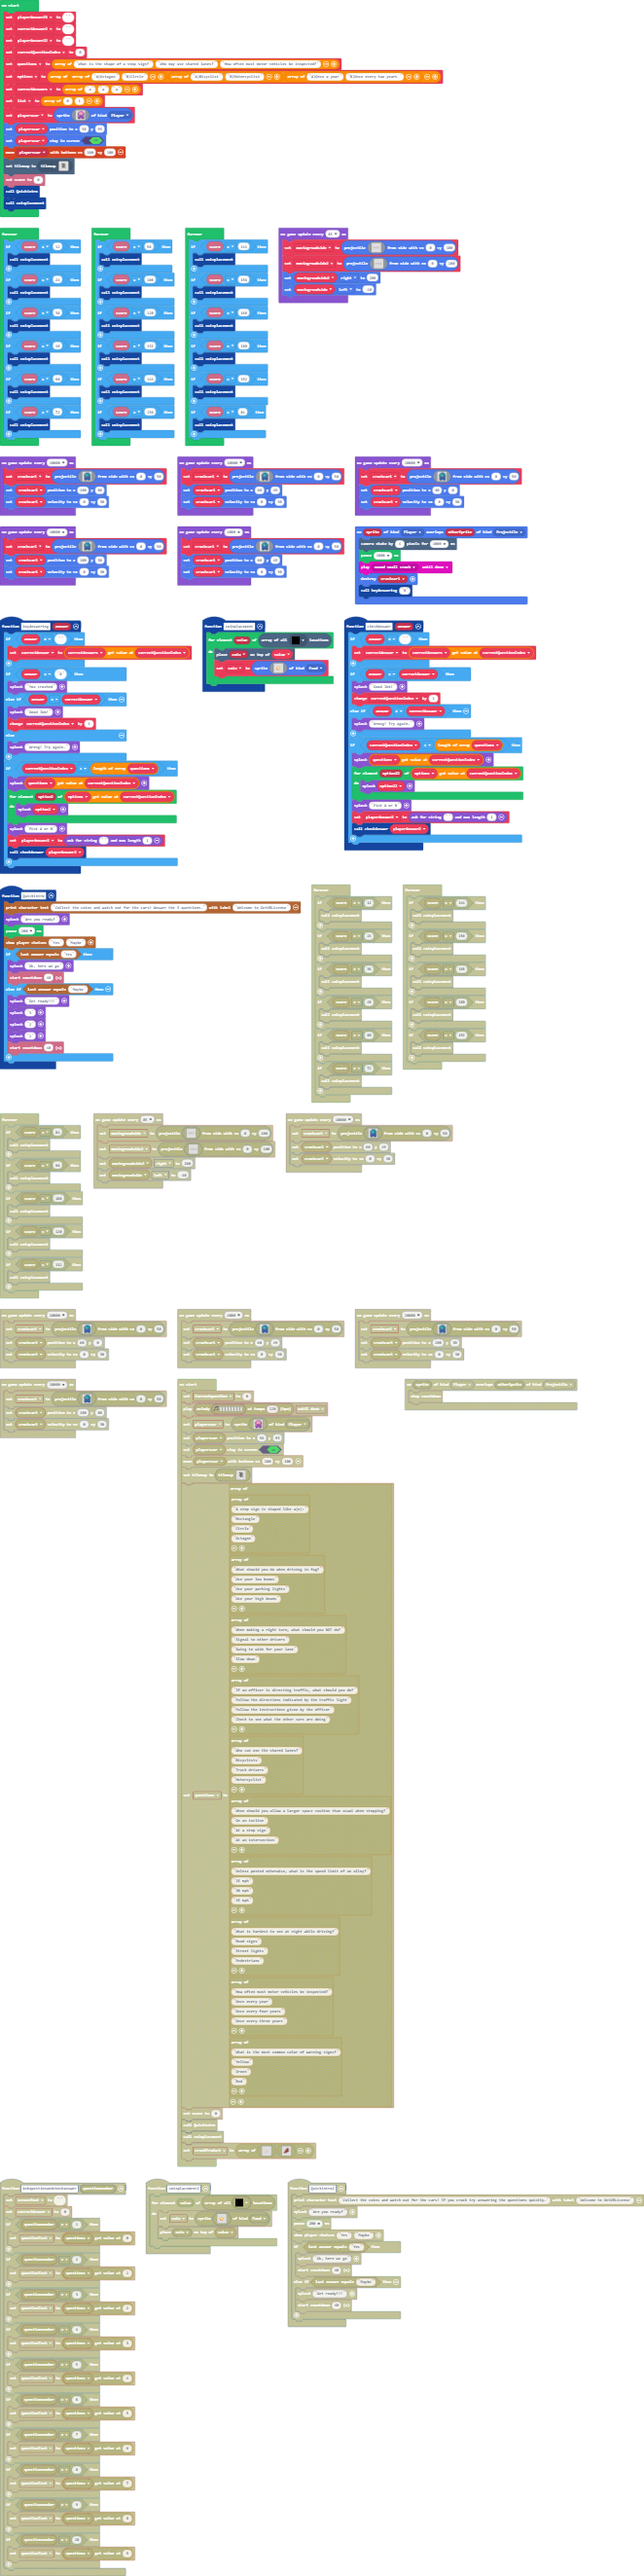
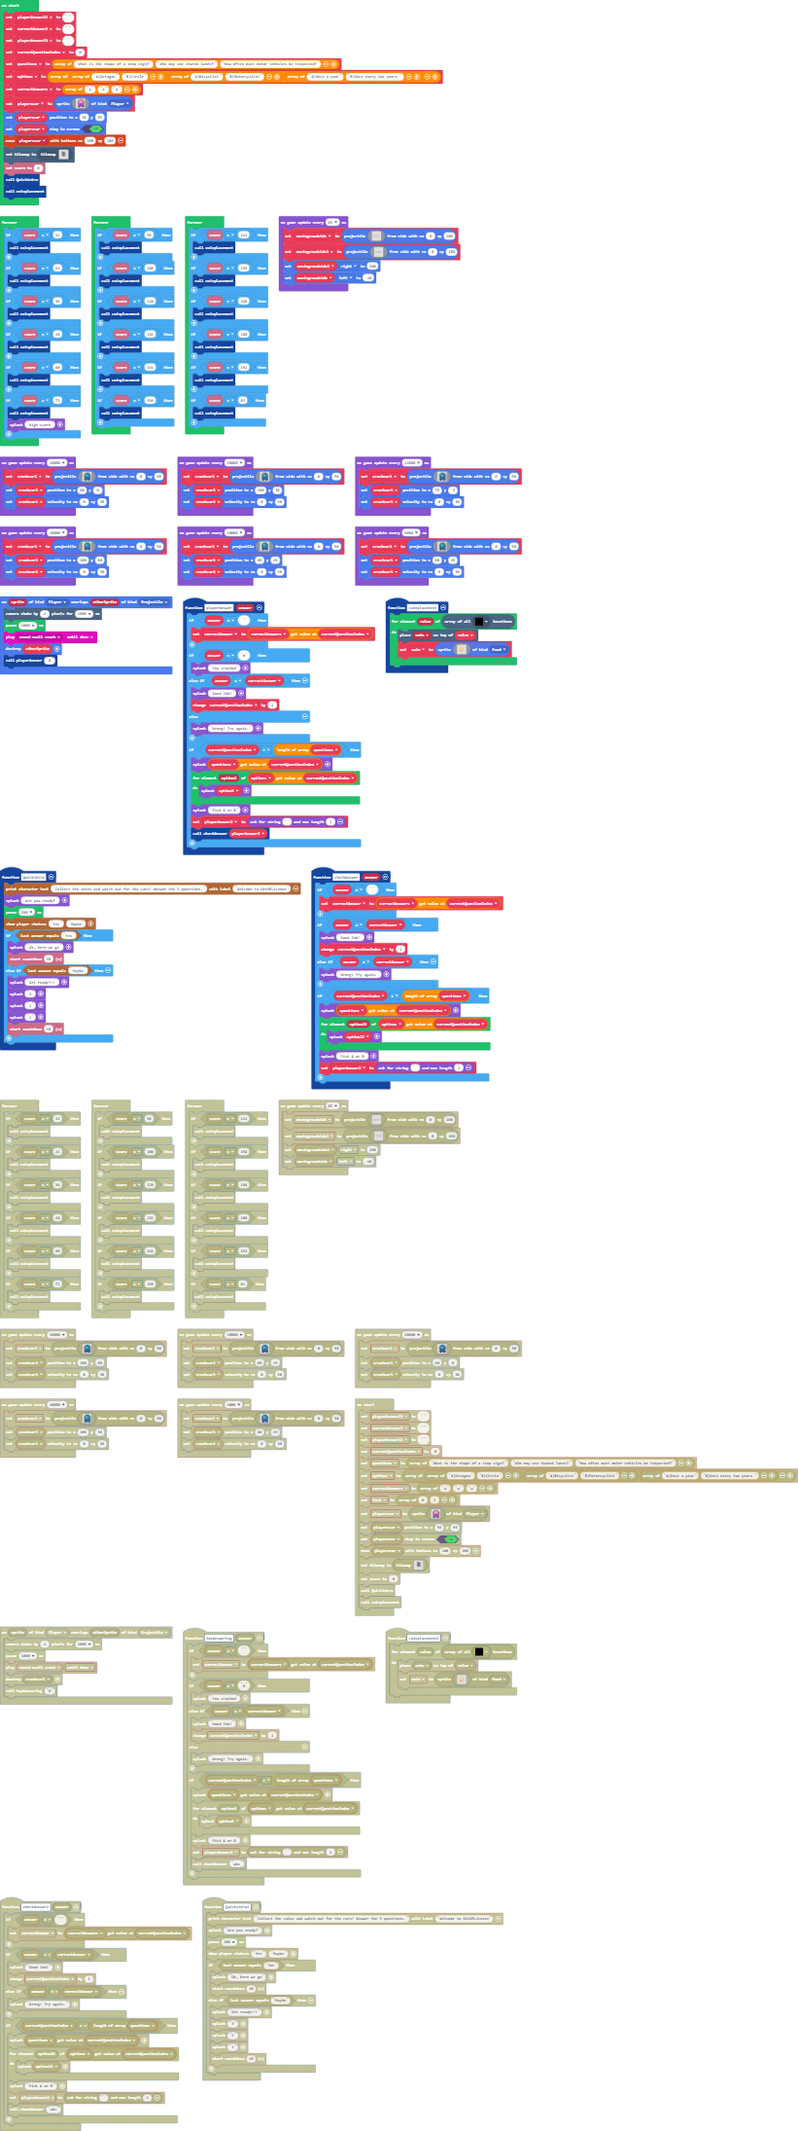
Update main.blocks, main.ts, tilemap.g.jres, tilemap.g.ts

diff --git a/main.ts b/main.ts
@@ -5,8 +5,8 @@ sprites.onOverlap(SpriteKind.Player, SpriteKind.Projectile, function (sprite, ot
     scene.cameraShake(4, 1000)
     pause(1000)
     music.play(music.melodyPlayable(music.smallCrash), music.PlaybackMode.UntilDone)
-    sprites.destroy(crashcar1)
-    heyAnswering("0")
+    sprites.destroy(otherSprite)
+    playerAnswer("0")
 })
 function checkAnswer (answer: string) {
     if (answer != "") {
@@ -25,10 +25,9 @@ function checkAnswer (answer: string) {
         }
         game.splash("Pick A or B")
         playerAnswer2 = game.askForString("", 1)
-        checkAnswer(playerAnswer2)
     }
 }
-function heyAnswering (answer: string) {
+function playerAnswer (answer: string) {
     if (answer != "") {
         correctAnswer = correctAnswers[currentQuestionIndex]
     }
@@ -95,22 +94,21 @@ function Quickintro () {
 }
 let movingroadside2: Sprite = null
 let movingroadside: Sprite = null
+let crashcar1: Sprite = null
 let coin: Sprite = null
 let playerAnswer2 = ""
 let correctAnswer = ""
-let crashcar1: Sprite = null
 let correctAnswers: string[] = []
 let options: string[][] = []
 let questions: string[] = []
 let currentQuestionIndex = 0
-let playerAnswer23 = ""
-let correctAnswer2 = ""
 let playerAnswer22 = ""
+let correctAnswer2 = ""
+let playerAnswer23 = ""
 currentQuestionIndex = 0
 questions = ["What is the shape of a stop sign?", "Who may use shared lanes?", "How often must motor vehicles be inspected?"]
 options = [["A)Octagon", "B)Circle"], ["A)Bicyclist", "B)Motorcyclist"], ["A)Once a year", "B)Once every two years "]]
 correctAnswers = ["a", "a", "a"]
-let list = [0, 1]
 let playerscar = sprites.create(img`
     . . . . . . a a c c a a . . . . 
     . . . . . a 3 3 3 3 3 3 a . . . 
@@ -136,6 +134,28 @@ tiles.setCurrentTilemap(tilemap`level6`)
 info.setScore(0)
 Quickintro()
 coinplacement()
+game.onUpdateInterval(12000, function () {
+    crashcar1 = sprites.createProjectileFromSide(img`
+        . . . . . . 8 8 c c 8 8 . . . . 
+        . . . . . 8 6 6 6 6 6 6 8 . . . 
+        . . . . 6 c 6 6 6 6 6 6 c 6 . . 
+        . . . 8 6 c 9 6 6 6 6 6 c 6 8 . 
+        . . . f 6 6 9 6 6 6 6 6 c 6 f . 
+        . . . f 6 6 9 6 6 6 6 6 6 6 f . 
+        . . . f 6 6 9 6 6 6 6 6 6 6 f . 
+        . . . f 6 c 6 9 9 6 6 6 c 6 f . 
+        . . . 8 6 c 8 c c c c 8 c 6 8 . 
+        . . . 8 6 8 c b b b b c 8 6 8 . 
+        . . . 8 6 8 b b b b b b 8 6 8 . 
+        . . . 8 8 8 8 8 8 8 8 8 8 8 8 . 
+        . . . f 8 d 8 8 8 8 8 8 d 8 f . 
+        . . . f 8 6 d 8 8 8 8 d 6 8 f . 
+        . . . f f 8 8 8 8 8 8 8 8 f f . 
+        . . . . f f . . . . . . f f . . 
+        `, 0, 50)
+    crashcar1.setPosition(75, -5)
+    crashcar1.setVelocity(0, 30)
+})
 game.onUpdateInterval(85, function () {
     movingroadside = sprites.createProjectileFromSide(img`
         ddddddddddddbbbbbbbbdddddddbddddbbbbbbddddddddddddbbbbbbddddddddddddddbbbbbdddddddddd
@@ -204,6 +224,7 @@ forever(function () {
     }
     if (info.score() == 72) {
         coinplacement()
+        game.splash("high score")
     }
 })
 forever(function () {
@@ -265,50 +286,6 @@ game.onUpdateInterval(10000, function () {
         . . . f f 8 8 8 8 8 8 8 8 f f . 
         . . . . f f . . . . . . f f . . 
         `, 0, 50)
-    crashcar1.setPosition(100, 80)
-    crashcar1.setVelocity(0, 30)
-})
-game.onUpdateInterval(10000, function () {
-    crashcar1 = sprites.createProjectileFromSide(img`
-        . . . . . . 8 8 c c 8 8 . . . . 
-        . . . . . 8 6 6 6 6 6 6 8 . . . 
-        . . . . 6 c 6 6 6 6 6 6 c 6 . . 
-        . . . 8 6 c 9 6 6 6 6 6 c 6 8 . 
-        . . . f 6 6 9 6 6 6 6 6 c 6 f . 
-        . . . f 6 6 9 6 6 6 6 6 6 6 f . 
-        . . . f 6 6 9 6 6 6 6 6 6 6 f . 
-        . . . f 6 c 6 9 9 6 6 6 c 6 f . 
-        . . . 8 6 c 8 c c c c 8 c 6 8 . 
-        . . . 8 6 8 c b b b b c 8 6 8 . 
-        . . . 8 6 8 b b b b b b 8 6 8 . 
-        . . . 8 8 8 8 8 8 8 8 8 8 8 8 . 
-        . . . f 8 d 8 8 8 8 8 8 d 8 f . 
-        . . . f 8 6 d 8 8 8 8 d 6 8 f . 
-        . . . f f 8 8 8 8 8 8 8 8 f f . 
-        . . . . f f . . . . . . f f . . 
-        `, 0, 50)
-    crashcar1.setPosition(60, 49)
-    crashcar1.setVelocity(0, 30)
-})
-game.onUpdateInterval(10000, function () {
-    crashcar1 = sprites.createProjectileFromSide(img`
-        . . . . . . 8 8 c c 8 8 . . . . 
-        . . . . . 8 6 6 6 6 6 6 8 . . . 
-        . . . . 6 c 6 6 6 6 6 6 c 6 . . 
-        . . . 8 6 c 9 6 6 6 6 6 c 6 8 . 
-        . . . f 6 6 9 6 6 6 6 6 c 6 f . 
-        . . . f 6 6 9 6 6 6 6 6 6 6 f . 
-        . . . f 6 6 9 6 6 6 6 6 6 6 f . 
-        . . . f 6 c 6 9 9 6 6 6 c 6 f . 
-        . . . 8 6 c 8 c c c c 8 c 6 8 . 
-        . . . 8 6 8 c b b b b c 8 6 8 . 
-        . . . 8 6 8 b b b b b b 8 6 8 . 
-        . . . 8 8 8 8 8 8 8 8 8 8 8 8 . 
-        . . . f 8 d 8 8 8 8 8 8 d 8 f . 
-        . . . f 8 6 d 8 8 8 8 d 6 8 f . 
-        . . . f f 8 8 8 8 8 8 8 8 f f . 
-        . . . . f f . . . . . . f f . . 
-        `, 0, 50)
     crashcar1.setPosition(60, 0)
     crashcar1.setVelocity(0, 30)
 })
@@ -332,5 +309,49 @@ game.onUpdateInterval(10000, function () {
         . . . . f f . . . . . . f f . . 
         `, 0, 50)
     crashcar1.setPosition(100, 30)
+    crashcar1.setVelocity(0, 30)
+})
+game.onUpdateInterval(10000, function () {
+    crashcar1 = sprites.createProjectileFromSide(img`
+        . . . . . . 8 8 c c 8 8 . . . . 
+        . . . . . 8 6 6 6 6 6 6 8 . . . 
+        . . . . 6 c 6 6 6 6 6 6 c 6 . . 
+        . . . 8 6 c 9 6 6 6 6 6 c 6 8 . 
+        . . . f 6 6 9 6 6 6 6 6 c 6 f . 
+        . . . f 6 6 9 6 6 6 6 6 6 6 f . 
+        . . . f 6 6 9 6 6 6 6 6 6 6 f . 
+        . . . f 6 c 6 9 9 6 6 6 c 6 f . 
+        . . . 8 6 c 8 c c c c 8 c 6 8 . 
+        . . . 8 6 8 c b b b b c 8 6 8 . 
+        . . . 8 6 8 b b b b b b 8 6 8 . 
+        . . . 8 8 8 8 8 8 8 8 8 8 8 8 . 
+        . . . f 8 d 8 8 8 8 8 8 d 8 f . 
+        . . . f 8 6 d 8 8 8 8 d 6 8 f . 
+        . . . f f 8 8 8 8 8 8 8 8 f f . 
+        . . . . f f . . . . . . f f . . 
+        `, 0, 50)
+    crashcar1.setPosition(100, 80)
+    crashcar1.setVelocity(0, 30)
+})
+game.onUpdateInterval(10000, function () {
+    crashcar1 = sprites.createProjectileFromSide(img`
+        . . . . . . 8 8 c c 8 8 . . . . 
+        . . . . . 8 6 6 6 6 6 6 8 . . . 
+        . . . . 6 c 6 6 6 6 6 6 c 6 . . 
+        . . . 8 6 c 9 6 6 6 6 6 c 6 8 . 
+        . . . f 6 6 9 6 6 6 6 6 c 6 f . 
+        . . . f 6 6 9 6 6 6 6 6 6 6 f . 
+        . . . f 6 6 9 6 6 6 6 6 6 6 f . 
+        . . . f 6 c 6 9 9 6 6 6 c 6 f . 
+        . . . 8 6 c 8 c c c c 8 c 6 8 . 
+        . . . 8 6 8 c b b b b c 8 6 8 . 
+        . . . 8 6 8 b b b b b b 8 6 8 . 
+        . . . 8 8 8 8 8 8 8 8 8 8 8 8 . 
+        . . . f 8 d 8 8 8 8 8 8 d 8 f . 
+        . . . f 8 6 d 8 8 8 8 d 6 8 f . 
+        . . . f f 8 8 8 8 8 8 8 8 f f . 
+        . . . . f f . . . . . . f f . . 
+        `, 0, 50)
+    crashcar1.setPosition(60, 49)
     crashcar1.setVelocity(0, 30)
 })

diff --git a/tilemap.g.ts b/tilemap.g.ts
@@ -94,18 +94,6 @@ namespace myTiles {
 2 2 . . . . . . 2 2 
 2 2 . . . . . . 2 2 
 `, [myTiles.transparency16,myTiles.tile3], TileScale.Sixteen);
-            case "level6":
[1 lines of base64/hex data omitted]
-2 2 2 . . . . 2 2 2 
-2 2 2 . . . . 2 2 2 
-2 2 2 . . . . 2 2 2 
-2 2 2 . . . . 2 2 2 
-2 2 2 . . . . 2 2 2 
-2 2 2 . . . . 2 2 2 
-2 2 2 . . . . 2 2 2 
-2 2 2 . . . . 2 2 2 
-2 2 2 . . . . 2 2 2 
-`, [myTiles.transparency16,myTiles.tile1,myTiles.tile4], TileScale.Sixteen);
             case "level7":
             case "level7":return tiles.createTilemap(hex`1000100000000000000000000000000000000000000000000000000000000000000000000000000000000000000000000000000000000000000000000000000000000000000000000000000000000000000000000000000000000000000000000000000000000000000000000000000000000000000000000000000000000000000000000000000000000000000000000000000000000000000000000000000000000000000000000000000000000000000000000000000000000000000000000000000000000000000000000000000000000000000000000000000000000000000000000000000000000000000000000000000000000000000000000000000000000000`, img`
 . . . . . . . . . . . . . . . . 
@@ -144,6 +132,37 @@ namespace myTiles {
 . . . . . . . . . . . . . . . . 
 . . . . . . . . . . . . . . . . 
 `, [myTiles.transparency16], TileScale.Sixteen);
+            case "level9":
+            case "level9":return tiles.createTilemap(hex`1000100000000000000000000000000000000000000000000000000000000000000000000000000000000000000000000000000000000000000000000000000000000000000000000000000000000000000000000000000000000000000000000000000000000000000000000000000000000000000000000000000000000000000000000000000000000000000000000000000000000000000000000000000000000000000000000000000000000000000000000000000000000000000000000000000000000000000000000000000000000000000000000000000000000000000000000000000000000000000000000000000000000000000000000000000000000000`, img`
+. . . . . . . . . . . . . . . . 
+. . . . . . . . . . . . . . . . 
+. . . . . . . . . . . . . . . . 
+. . . . . . . . . . . . . . . . 
+. . . . . . . . . . . . . . . . 
+. . . . . . . . . . . . . . . . 
+. . . . . . . . . . . . . . . . 
+. . . . . . . . . . . . . . . . 
+. . . . . . . . . . . . . . . . 
+. . . . . . . . . . . . . . . . 
+. . . . . . . . . . . . . . . . 
+. . . . . . . . . . . . . . . . 
+. . . . . . . . . . . . . . . . 
+. . . . . . . . . . . . . . . . 
+. . . . . . . . . . . . . . . . 
+. . . . . . . . . . . . . . . . 
+`, [myTiles.transparency16], TileScale.Sixteen);
+            case "level6":
[1 lines of base64/hex data omitted]
+2 2 2 . . . . 2 2 2 
+2 2 2 . . . . 2 2 2 
+2 2 2 . . . . 2 2 2 
+2 2 2 . . . . 2 2 2 
+2 2 2 . . . . 2 2 2 
+2 2 2 . . . . 2 2 2 
+2 2 2 . . . . 2 2 2 
+2 2 2 . . . . 2 2 2 
+2 2 2 . . . . 2 2 2 
+`, [myTiles.transparency16,myTiles.tile1,myTiles.tile4], TileScale.Sixteen);
         }
         return null;
     })
